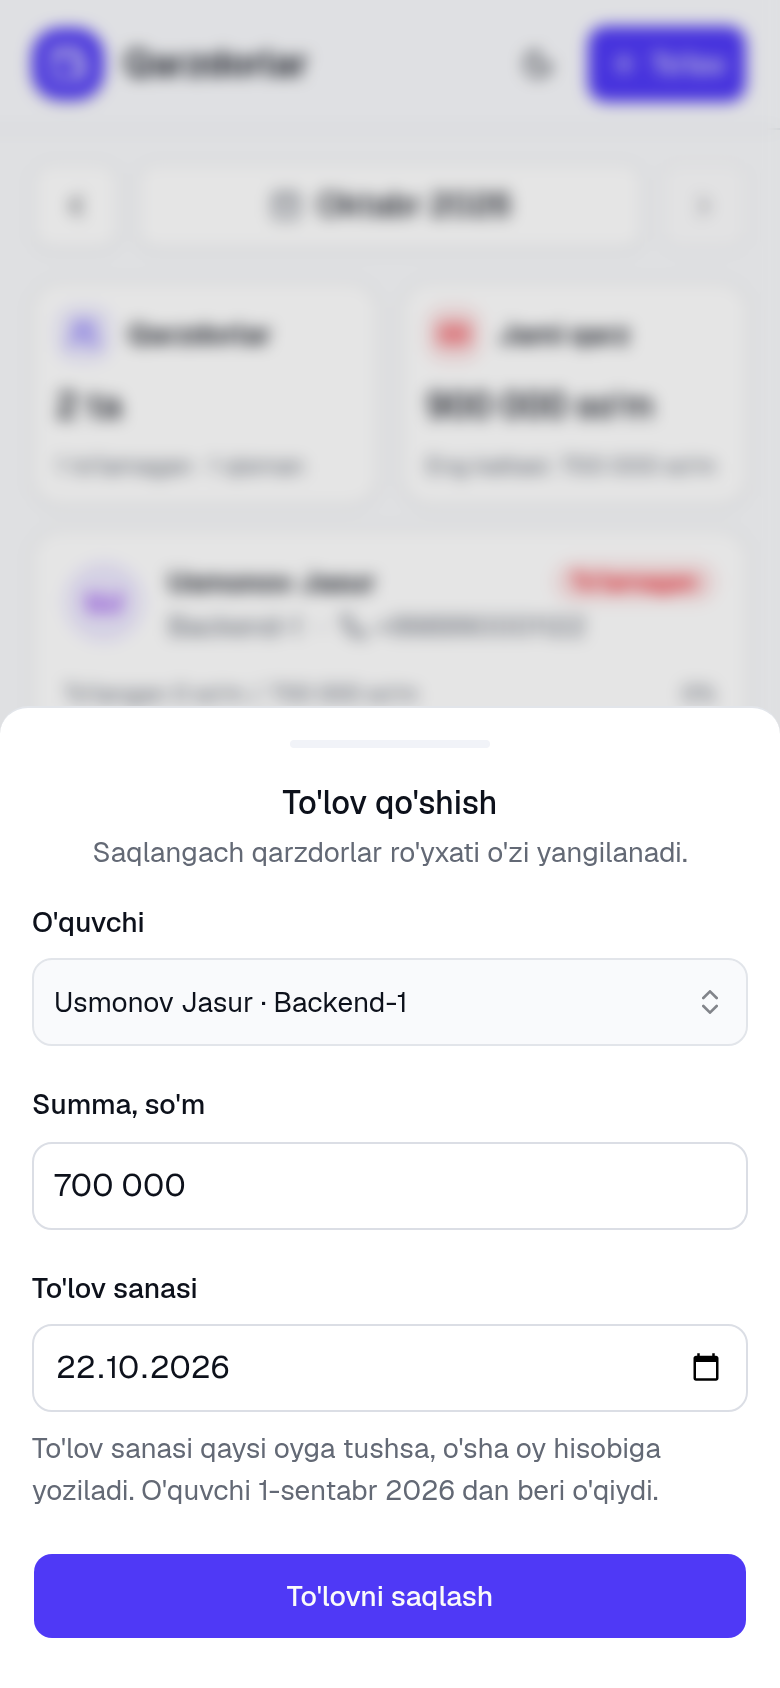
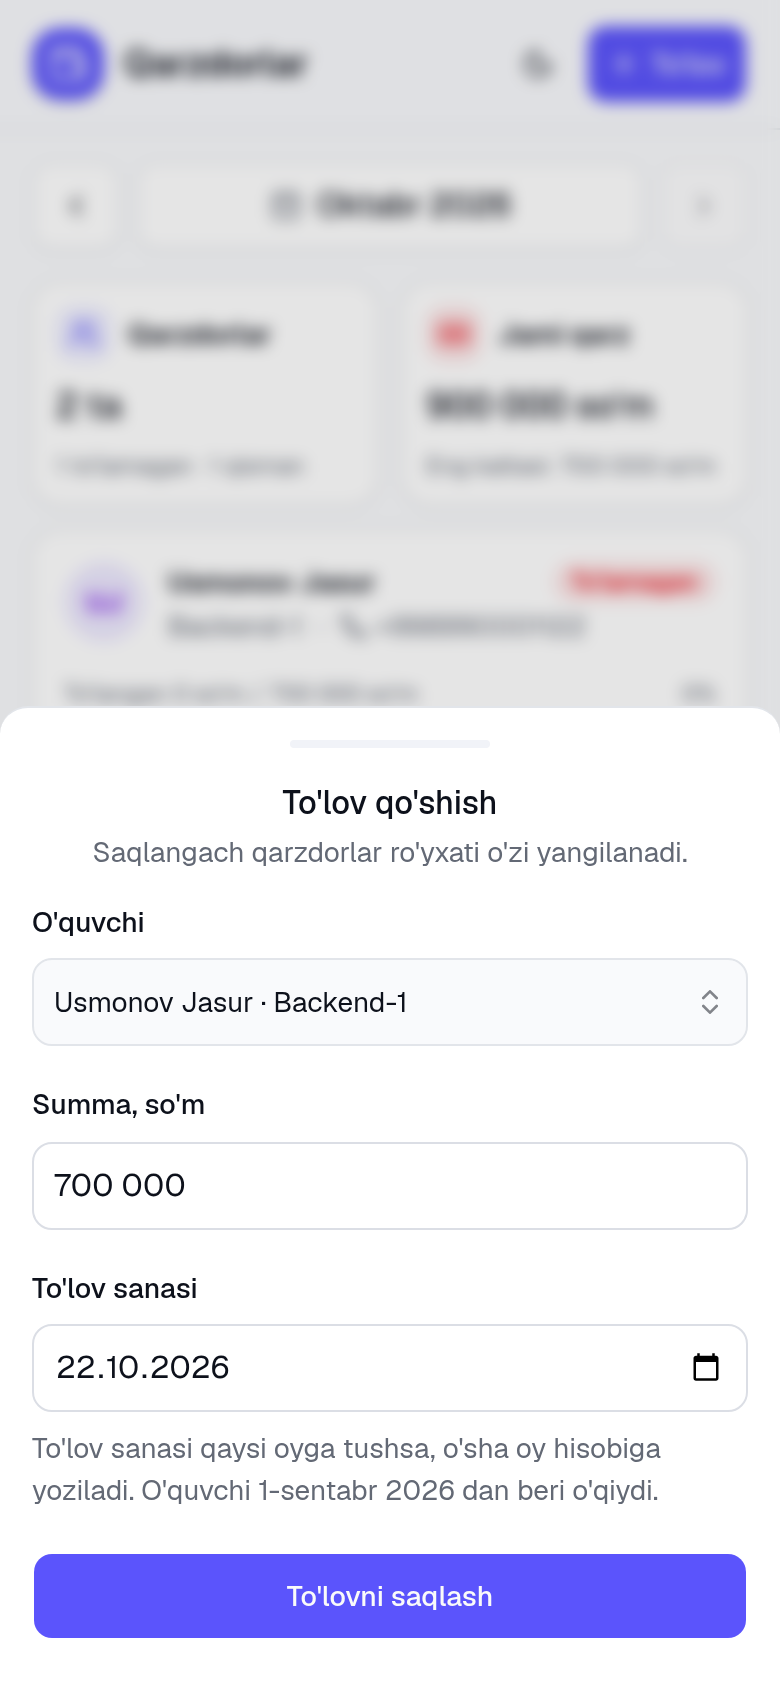
style(frontend): lighter primary colour

Changed region(s): [[0.0308, 0.8934, 0.9538, 0.9858]]

diff --git a/frontend/src/index.css b/frontend/src/index.css
@@ -57,7 +57,7 @@
   --card-foreground: oklch(0.18 0.02 265);
   --popover: oklch(1 0 0);
   --popover-foreground: oklch(0.18 0.02 265);
-  --primary: oklch(0.511 0.262 276.966);
+  --primary: oklch(0.56 0.24 277);
   --primary-foreground: oklch(0.985 0 0);
   --secondary: oklch(0.962 0.012 272);
   --secondary-foreground: oklch(0.3 0.08 275);
